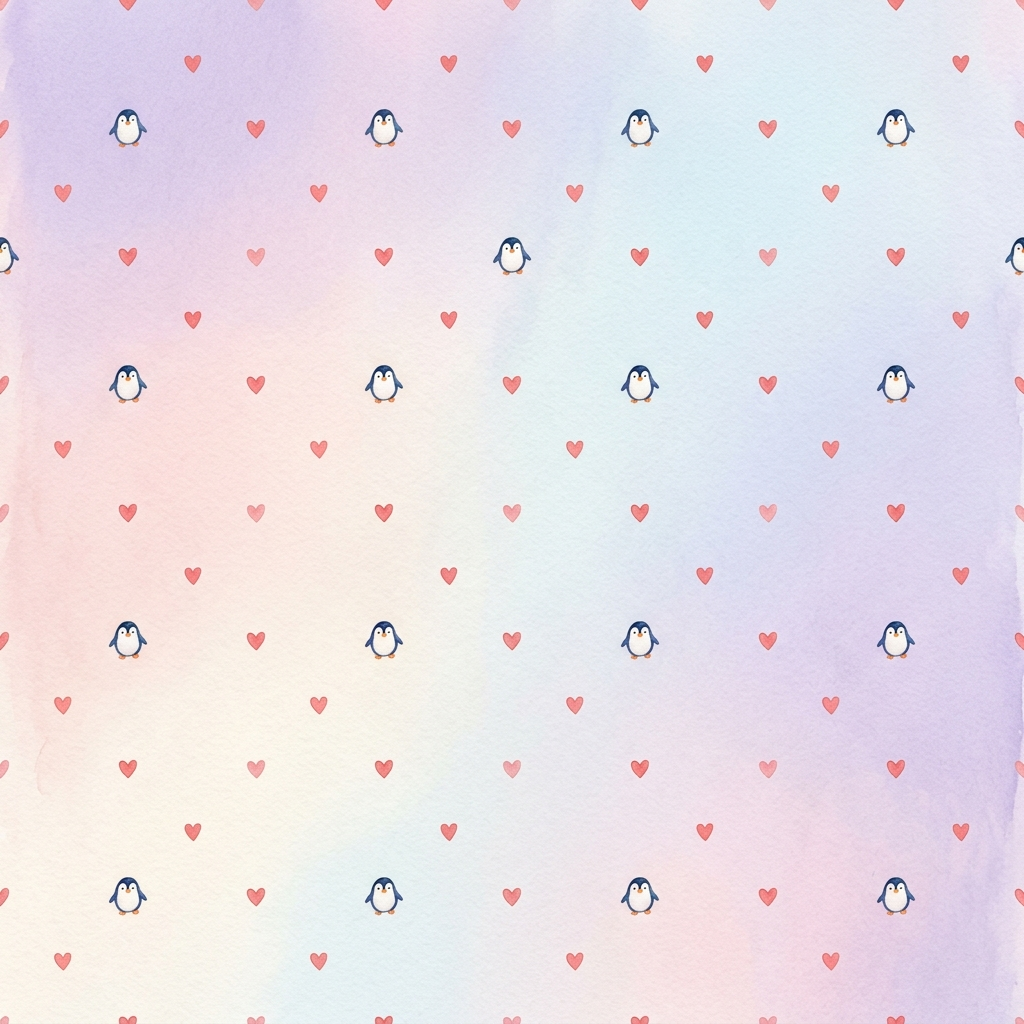
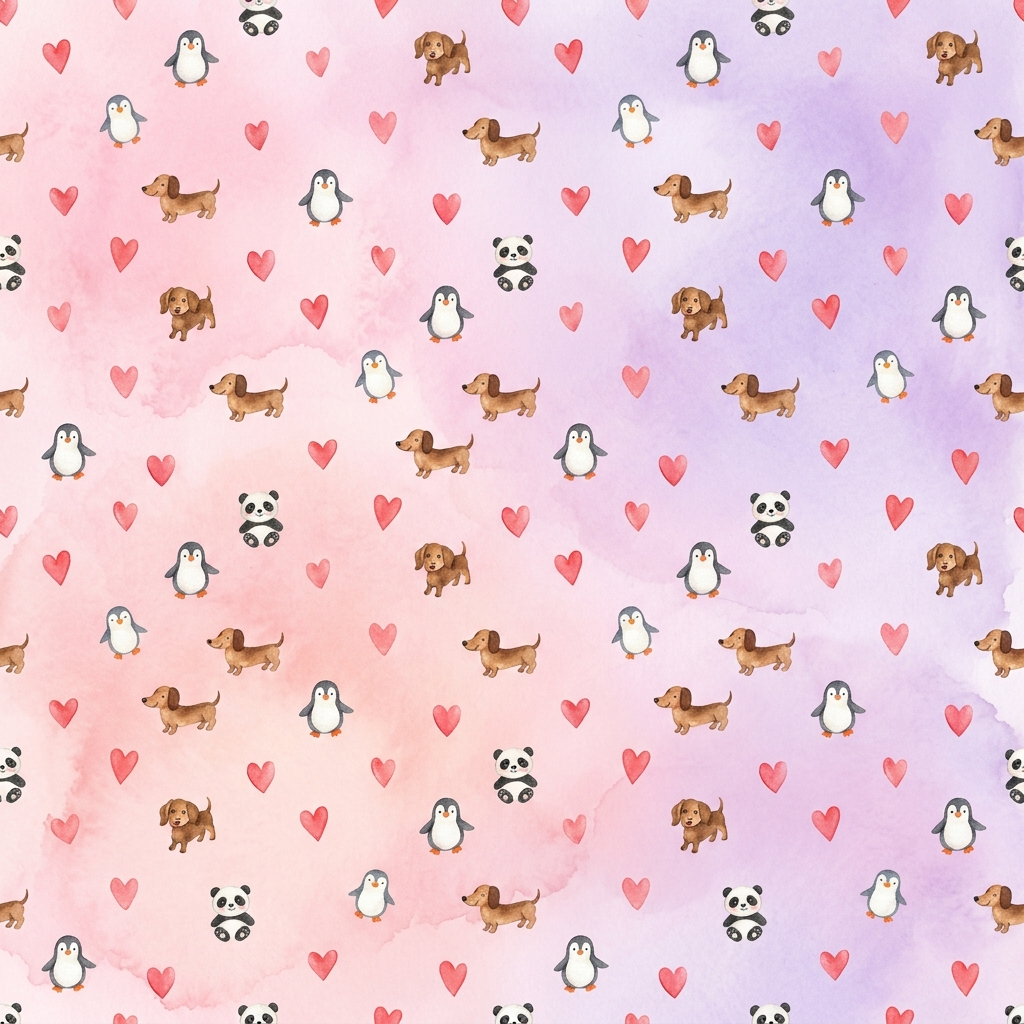
style: combined animals background and fixed tiling breakage

diff --git a/frontend/src/index.css b/frontend/src/index.css
@@ -52,12 +52,12 @@ body {
   overflow-x: hidden;
 }
 
-@keyframes slidePattern {
+@keyframes breathPattern {
   0% {
-    background-position: 0 0;
+    transform: scale(1);
   }
   100% {
-    background-position: 400px 400px;
+    transform: scale(1.05);
   }
 }
 
@@ -70,13 +70,14 @@ body::before {
   width: 100vw;
   height: 100vh;
   background-image: url('/pattern-watercolor.png');
-  background-size: 350px 350px;
-  background-repeat: repeat;
-  opacity: 0.25;
+  background-size: cover;          /* Evita que se repita como baldosas */
+  background-position: center;     /* Centra la imagen grande */
+  background-repeat: no-repeat;    /* Evita el grid roto */
+  opacity: 0.35;                   /* Subido un poco para que se vea claro */
   z-index: -1;
   mix-blend-mode: multiply;
   pointer-events: none;
-  animation: slidePattern 80s linear infinite;
+  animation: breathPattern 25s ease-in-out infinite alternate;
   transition: opacity 0.8s ease;
 }
 
